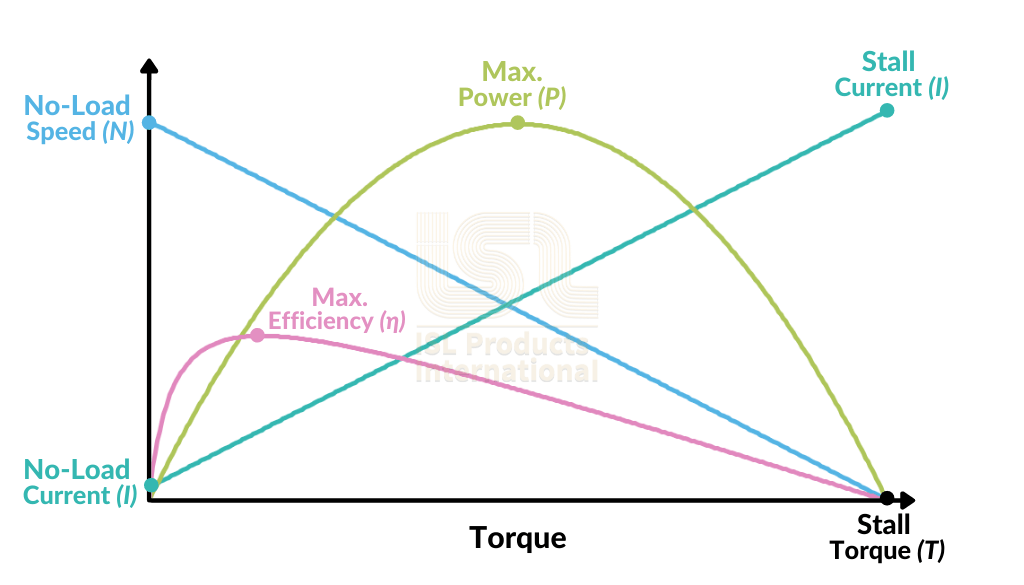
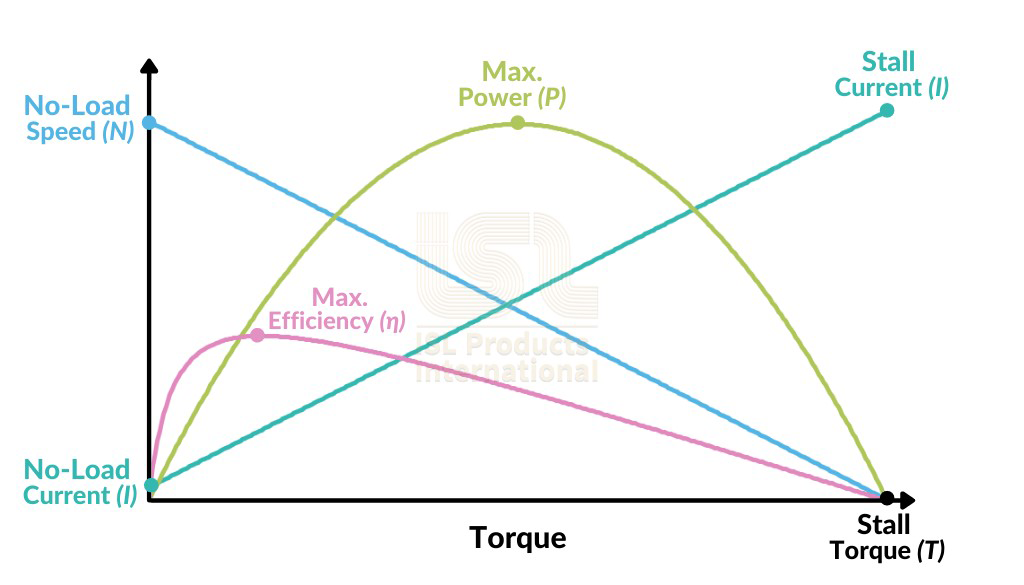
Proper images now

diff --git a/docs/source/tech_tips/tech-tips.rst b/docs/source/tech_tips/tech-tips.rst
@@ -77,7 +77,7 @@ Just click to expand the Tech Tip you'd like to read.
    the motor is, and a bunch of other factors. The general performance curve
    of a DC motor can be seen in Figure 1.
 
-   .. figure:: images/dc-motor-curve.png
+   .. figure:: images/dc-motor-curve.*
       :width: 75%
       :align: center
       :alt: DC Motor Performance Curves
